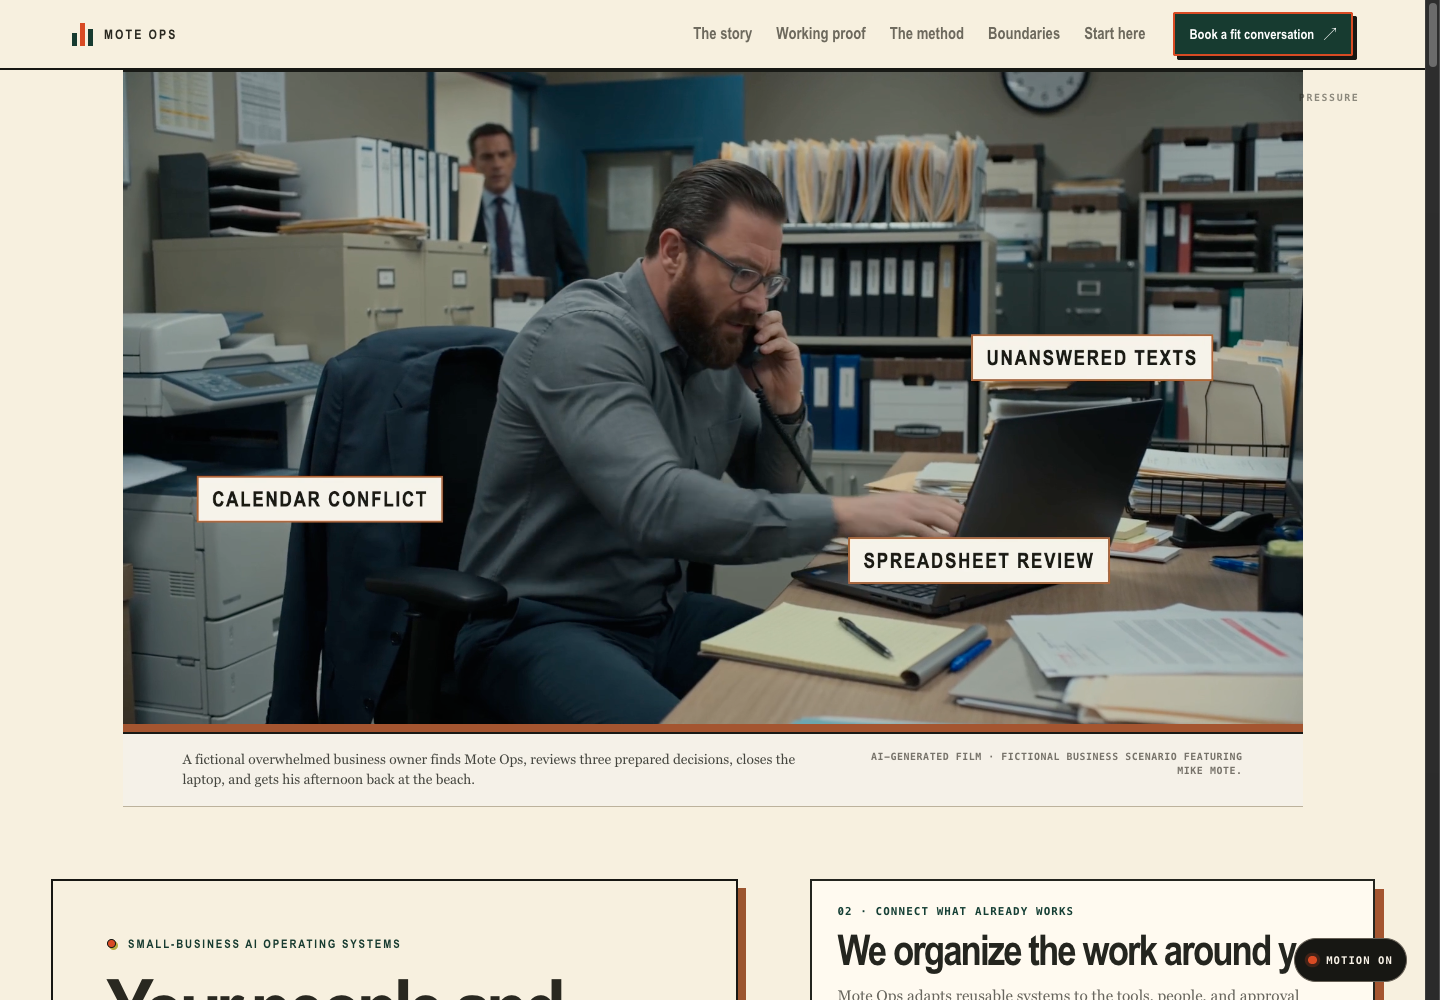
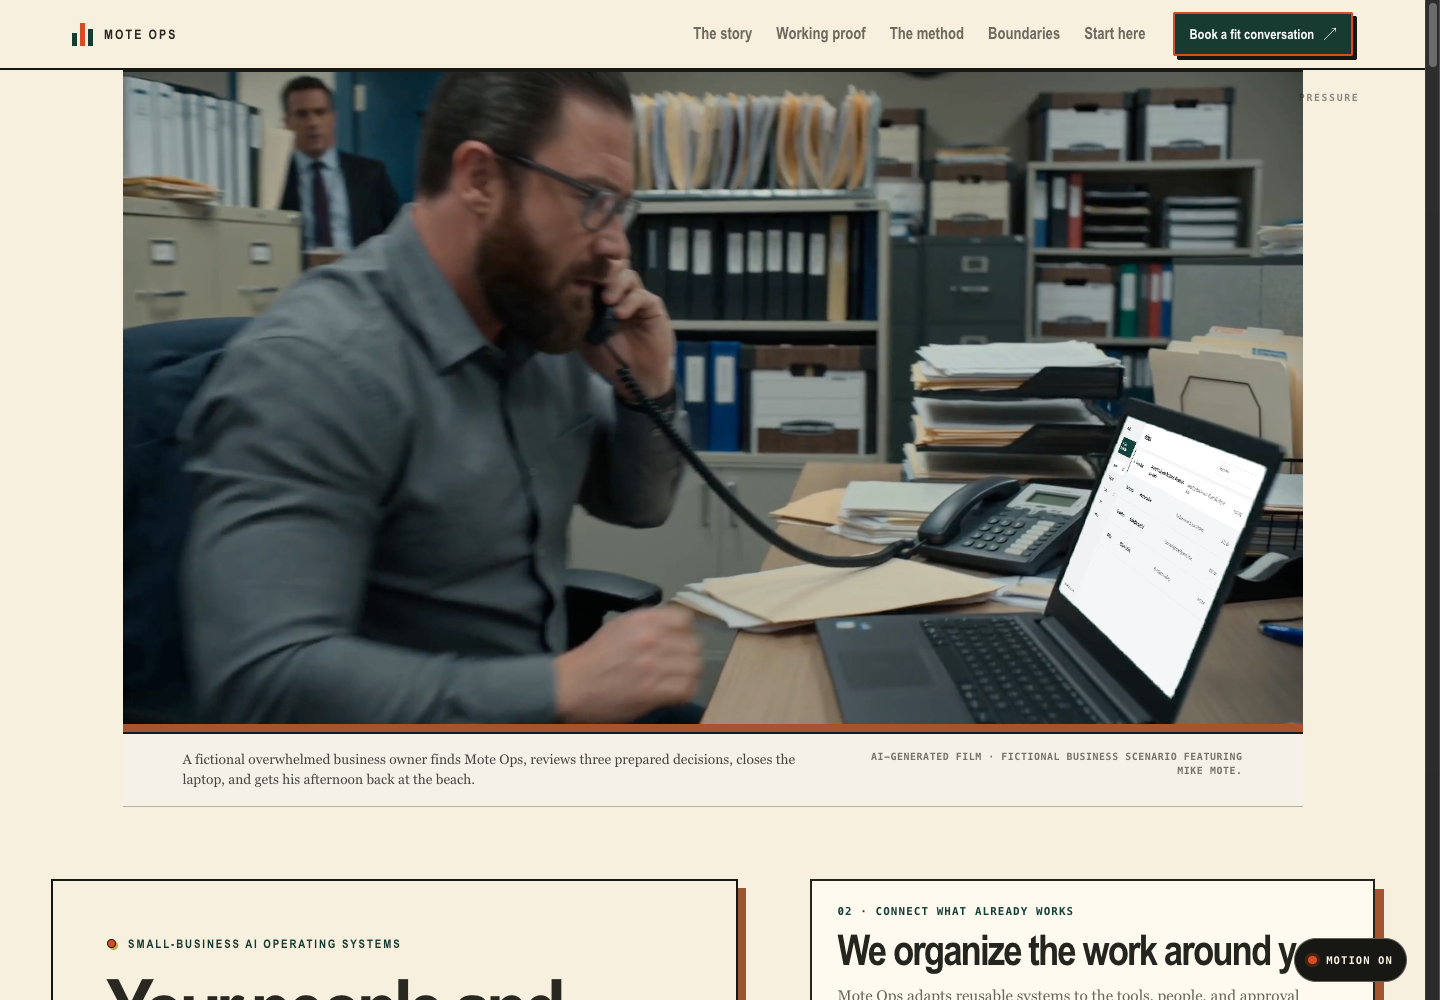
test: verify corrected laptop composite

diff --git a/.superpowers/sdd/opening-laptop-verification.md b/.superpowers/sdd/opening-laptop-verification.md
@@ -1,4 +1,4 @@
-# Opening laptop clickthrough verification
+# Corrected opening laptop clickthrough verification
 
 ## User story
 
@@ -12,6 +12,9 @@ An overwhelmed business owner sees a Mote Ops invitation on his real laptop, ope
 - 1080 master: H.264, 1920 × 1080, 24 fps, silent, fast-start, 28.000 seconds.
 - 720 master: H.264, 1280 × 720, 24 fps, silent, fast-start, 28.000 seconds.
 - Full frame review at every manifest boundary: passed.
+- Rejected flat rotate-and-scale moving insert: removed.
+- Replacement moving insert: four-corner perspective track across all 30 frames.
+- Inbox and opened email: conventional system-mail layout with contained typography.
 - Additional Higgsfield or Seedance credits spent: 0.
 
 ## Browser checks
@@ -22,7 +25,7 @@ An overwhelmed business owner sees a Mote Ops invitation on his real laptop, ope
 - Film width: 1180 pixels.
 - Selected source: `mote-ops-opening-1080.mp4`.
 - Duration reported by browser: 28 seconds.
-- Autoplay: playing.
+- Screenshot captured at 6.00 seconds, the exact moving-laptop moment rejected in the prior preview.
 - Horizontal overflow: none.
 - Framework error overlay: none.
 - Browser console errors: none.
@@ -36,7 +39,8 @@ An overwhelmed business owner sees a Mote Ops invitation on his real laptop, ope
 - Duration reported by browser: 28 seconds.
 - Horizontal overflow: none.
 - Browser console errors: none.
-- Screenshot captured at the readable opened-email hold: `.superpowers/sdd/opening-laptop-mobile.png`.
+- Screenshot captured at 6.00 seconds, the exact moving-laptop moment rejected in the prior preview: `.superpowers/sdd/opening-laptop-mobile.png`.
+- The complete visible email interface remains inside the physical black laptop bezel.
 
 ### Motion and replay
 
@@ -48,21 +52,21 @@ An overwhelmed business owner sees a Mote Ops invitation on his real laptop, ope
 ## Protected preview
 
 - Project: `moteops-cinematic-review`.
-- Deployment: `dpl_CJWRRzUL3eHKc45C5rGBGUjDnTPB`.
+- Deployment: `dpl_FzkPmr224d1pz4sRJM27mcDcx38o`.
 - Target: preview.
 - Status: ready.
-- Canonical URL: `https://moteops-cinematic-review-bvk3blhaz-mikedmote52-projects.vercel.app`.
+- Canonical URL: `https://moteops-cinematic-review-2dz1y8659-mikedmote52-projects.vercel.app`.
 - Unauthenticated request: redirected to Vercel SSO, confirming deployment protection.
-- Temporary review access expires July 24, 2026 at 8:48 AM.
+- Temporary review access expires July 24, 2026 at 9:06 AM.
 - Root document: HTTP 200 through authenticated deployment access.
-- 1080 media: HTTP 200 for HEAD, HTTP 206 in the browser, 11,521,981 bytes.
-- 720 media: HTTP 200 for HEAD, HTTP 206 in the browser, 4,183,078 bytes.
[2 lines of base64/hex data omitted]
+- 1080 media: HTTP 206 in the browser, 11,538,889 bytes.
+- 720 media: HTTP 206 in the browser, 4,174,510 bytes.
[2 lines of base64/hex data omitted]
 - Remote hashes match the audited local masters.
-- `/production/opening-film/build-opening-film.sh`: HTTP 404.
+- `/production/opening-film/build-laptop-discovery.sh`: HTTP 404.
 - `/.vercel/project.json`: HTTP 404.
 
 ## Result
 
-Passed. The complete film story and homepage controls work on the protected deployment at desktop and phone sizes. No production deployment was created.
+Passed. The previously rejected moving-laptop shot is perspective-matched and contained on the protected deployment at desktop and phone sizes. No production deployment was created.
